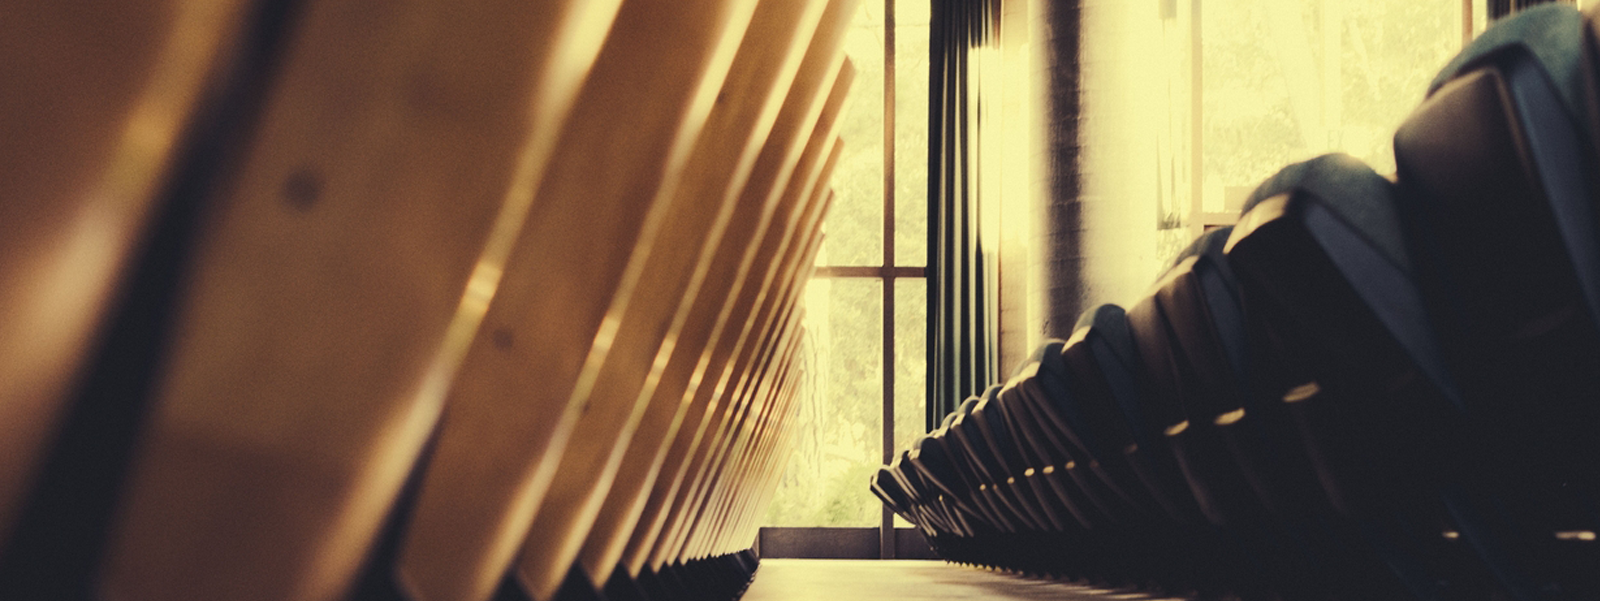
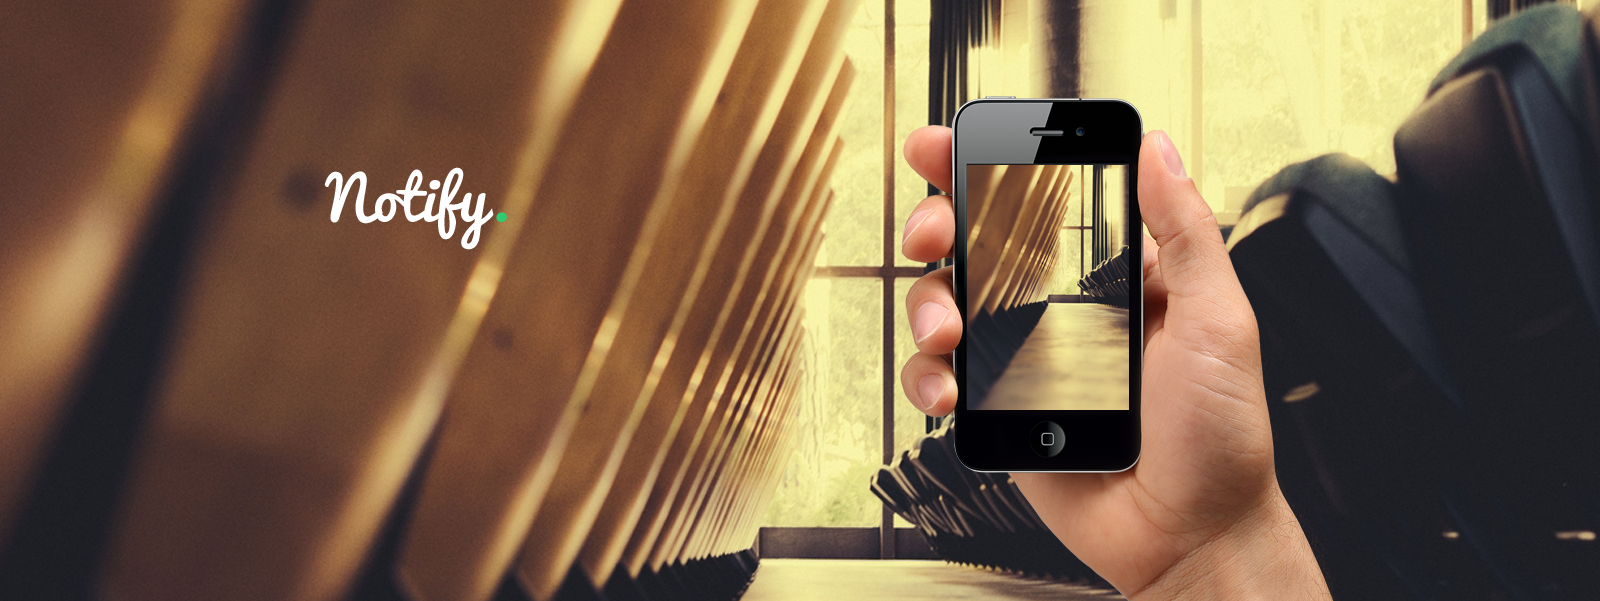
Textos header

Changed region(s): [[0.5625, 0.1498, 0.8438, 1.0], [0.1875, 0.2696, 0.3125, 0.4193]]

diff --git a/index.html b/index.html
@@ -15,13 +15,24 @@
 
     <!--COMEÇO HEADER-->
     <header>
-        <div id="informacoes-banner">
-            <h1>Notify</h1>
-            <h2>A great new free psd theme to showcase your new  application</h2>
-            <div class="plataforms">
-                <a href=""><img src="projetoNotify-master/img/icone-ios.png" alt=""></a>
-                <a href=""><img src="projetoNotify-master/img/icone-android.png" alt=""></a>
-                <a href=""><img src="projetoNotify-master/img/icone-windows.png" alt=""></a>
+        <div>
+            <div id="informations-banner">
+                    <h2>A great new free psd theme to showcase your new  application</h2>
+
+                <div class="plataforms">
+                    <div class="circle">
+                        <a href=""><img src="projetoNotify-master/img/icone-ios.png" alt=""></a>
+                    </div>
+                    
+                    <div class="circle">
+                        <a href=""><img src="projetoNotify-master/img/icone-android.png" alt=""></a>
+                    </div>
+                    
+                    <div class="circle">
+                        <a href=""><img src="projetoNotify-master/img/icone-windows.png" alt=""></a>
+                    </div>
+                    
+                </div>
             </div>
         </div>
     </header>

diff --git a/style.css b/style.css
@@ -59,23 +59,39 @@ h1{
     margin: 0;
 }
 
-header{
-    margin: 0px;
-    display: grid;
-    grid-template-areas: 'text image';
-    grid-template-rows: 78vh;
-    grid-template-columns: 30vw 30vw; 
+h2{
+    font-size: 15pt;
+}
 
+header{
+    height: 78vh;
     background-image: url("projetoNotify-master/img/banner.png");
     border-top: 10px solid #2ecc71;
     background-repeat: no-repeat;
     background-size: 100vw;
+    display: flex;
+    justify-content: space-between;
+    
 }
 
+header div:first-child{
+    width: 50%;
+    display: flex;
+    justify-content: flex-end;
+}
 #informations{
     margin-top: 45px;
     display: flex;
     justify-content: space-around;
+}
+
+#informations-banner{
+    width: 60%;
+    color: white;
+    display: flex;
+    flex-direction: column;
+    align-items: center;
+    justify-content: center;
 }
 
 .informations{
@@ -137,6 +153,26 @@ p{
     width: 40px;
 }
 
+.plataforms{
+    display: flex;
+    align-items: space-around;
+
+}
+
+.plataforms .circle img{
+    width: 20px;
+    padding: 2px 3px 2px 3px;
+}
+
+.plataforms .circle{
+    background-color: rgba(0, 0, 0,0.5);
+    
+}
+
+.plataforms .circle:hover{
+    background-color: #2ecc71;
+}
+
 span{
     font-weight: bolder;
     color: black;
@@ -151,4 +187,3 @@ span{
 }
 
 /* Amanda Henrique */
-
